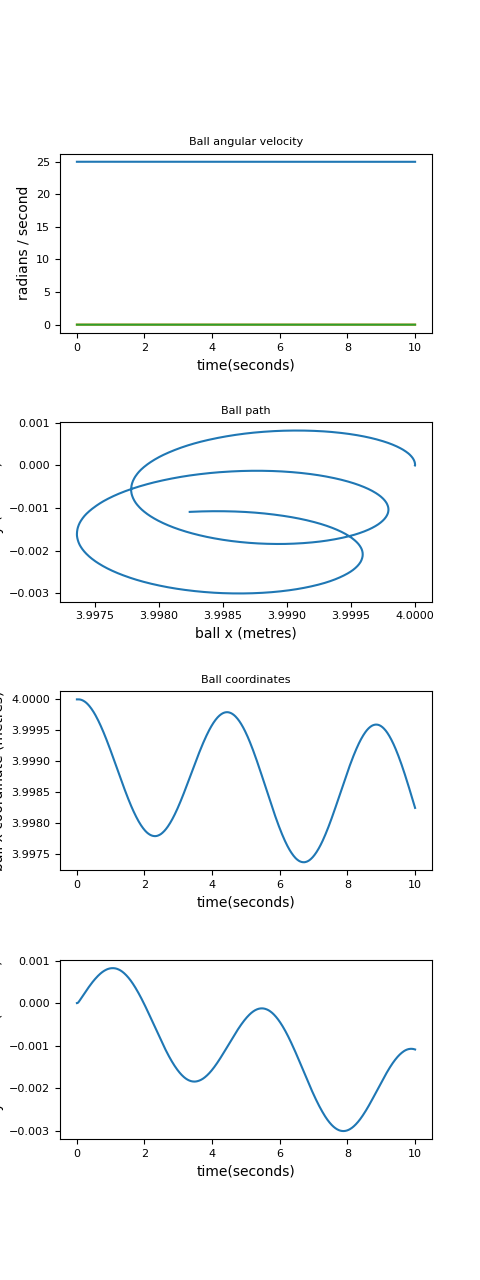
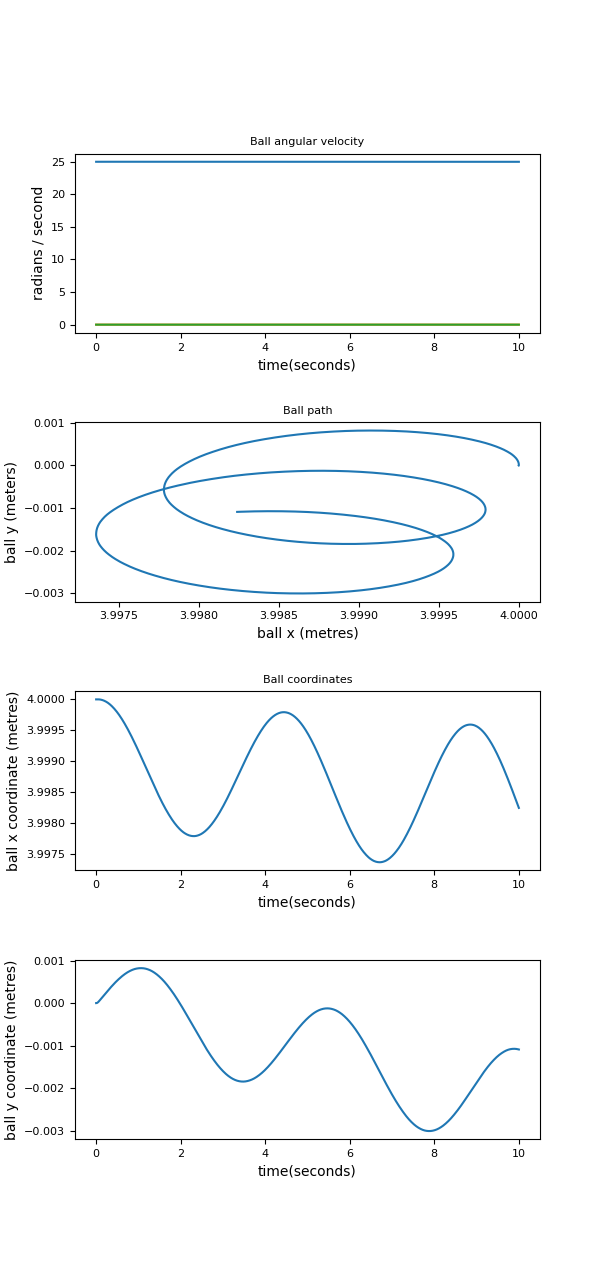
Fix missing (cropped) y-axis labels
Bottom 2 plots had y-axis label cropped, fixed by increasing plot width.

diff --git a/mujoco_ball_on_turntable.py b/mujoco_ball_on_turntable.py
@@ -88,7 +88,7 @@ while physics.data.time < duration:
   ball_y.append(physics.named.data.geom_xpos['ball1_geom', 'y'])
   
 dpi = 100
-width = 480
+width = 600
 height = 1280
 figsize = (width / dpi, height / dpi)
 _, ax = plt.subplots(4, 1, figsize=figsize, dpi=dpi, sharex=False)
